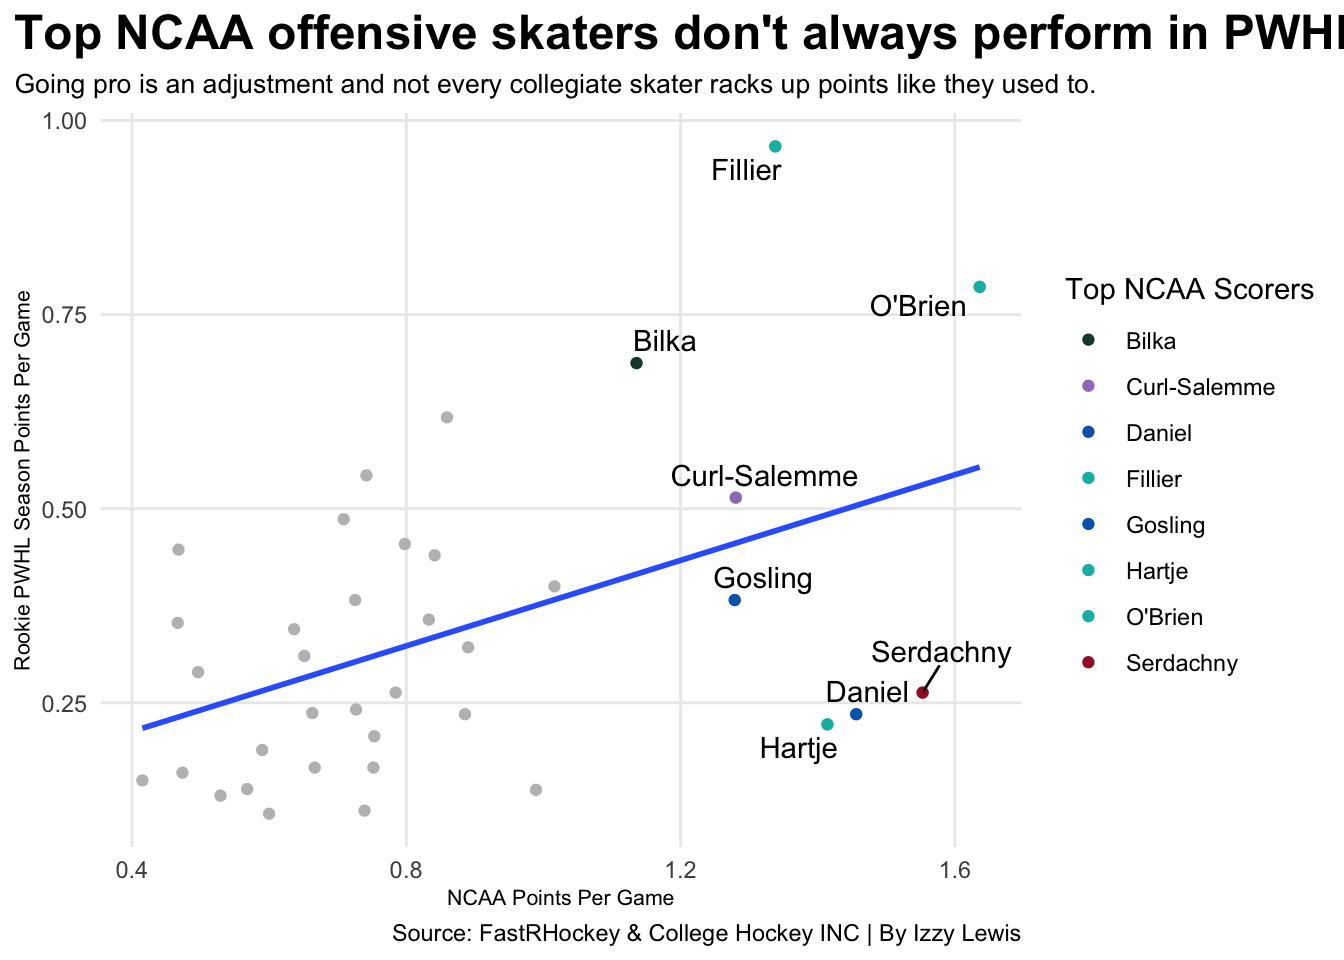
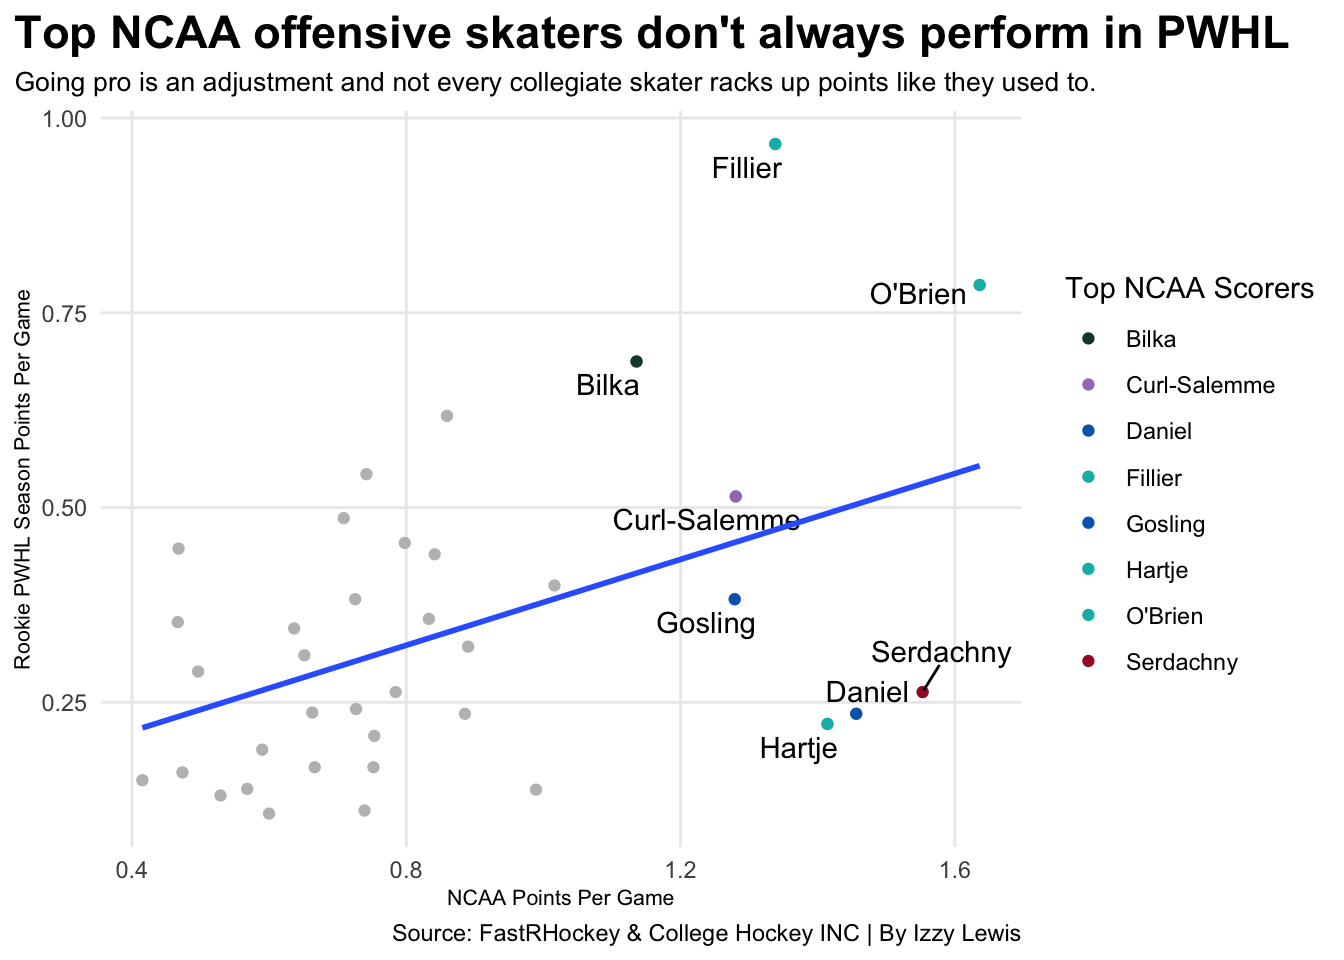
headlinesizechanges

diff --git a/posts/pwhl-expansion-predictions/index.html b/posts/pwhl-expansion-predictions/index.html
@@ -442,7 +442,7 @@ pre > code.sourceCode > span > a:first-child::before { text-decoration: underlin
 <span id="cb2-223"><a href="#cb2-223" aria-hidden="true" tabindex="-1"></a>    ) <span class="sc">+</span></span>
 <span id="cb2-224"><a href="#cb2-224" aria-hidden="true" tabindex="-1"></a>  <span class="fu">theme_minimal</span>() <span class="sc">+</span></span>
 <span id="cb2-225"><a href="#cb2-225" aria-hidden="true" tabindex="-1"></a>   <span class="fu">theme</span>(</span>
-<span id="cb2-226"><a href="#cb2-226" aria-hidden="true" tabindex="-1"></a>    <span class="at">plot.title =</span> <span class="fu">element_text</span>(<span class="at">size =</span> <span class="dv">18</span>, <span class="at">face =</span> <span class="st">"bold"</span>),</span>
+<span id="cb2-226"><a href="#cb2-226" aria-hidden="true" tabindex="-1"></a>    <span class="at">plot.title =</span> <span class="fu">element_text</span>(<span class="at">size =</span> <span class="dv">17</span>, <span class="at">face =</span> <span class="st">"bold"</span>),</span>
 <span id="cb2-227"><a href="#cb2-227" aria-hidden="true" tabindex="-1"></a>    <span class="at">axis.title =</span> <span class="fu">element_text</span>(<span class="at">size =</span> <span class="dv">8</span>), </span>
 <span id="cb2-228"><a href="#cb2-228" aria-hidden="true" tabindex="-1"></a>    <span class="at">plot.subtitle =</span> <span class="fu">element_text</span>(<span class="at">size=</span><span class="dv">10</span>), </span>
 <span id="cb2-229"><a href="#cb2-229" aria-hidden="true" tabindex="-1"></a>    <span class="at">panel.grid.minor =</span> <span class="fu">element_blank</span>(),</span>
@@ -561,7 +561,7 @@ pre > code.sourceCode > span > a:first-child::before { text-decoration: underlin
 <span id="cb3-96"><a href="#cb3-96" aria-hidden="true" tabindex="-1"></a>    ) <span class="sc">+</span></span>
 <span id="cb3-97"><a href="#cb3-97" aria-hidden="true" tabindex="-1"></a>  <span class="fu">theme_minimal</span>() <span class="sc">+</span></span>
 <span id="cb3-98"><a href="#cb3-98" aria-hidden="true" tabindex="-1"></a>   <span class="fu">theme</span>(</span>
-<span id="cb3-99"><a href="#cb3-99" aria-hidden="true" tabindex="-1"></a>    <span class="at">plot.title =</span> <span class="fu">element_text</span>(<span class="at">size =</span> <span class="dv">18</span>, <span class="at">face =</span> <span class="st">"bold"</span>),</span>
+<span id="cb3-99"><a href="#cb3-99" aria-hidden="true" tabindex="-1"></a>    <span class="at">plot.title =</span> <span class="fu">element_text</span>(<span class="at">size =</span> <span class="dv">17</span>, <span class="at">face =</span> <span class="st">"bold"</span>),</span>
 <span id="cb3-100"><a href="#cb3-100" aria-hidden="true" tabindex="-1"></a>    <span class="at">axis.title =</span> <span class="fu">element_text</span>(<span class="at">size =</span> <span class="dv">8</span>), </span>
 <span id="cb3-101"><a href="#cb3-101" aria-hidden="true" tabindex="-1"></a>    <span class="at">plot.subtitle =</span> <span class="fu">element_text</span>(<span class="at">size=</span><span class="dv">10</span>),</span>
 <span id="cb3-102"><a href="#cb3-102" aria-hidden="true" tabindex="-1"></a>    <span class="at">panel.grid.minor =</span> <span class="fu">element_blank</span>(),</span>

diff --git a/index.html b/index.html
@@ -207,7 +207,7 @@ window.Quarto = {
 
 <div class="quarto-listing quarto-listing-container-default" id="listing-listing">
 <div class="list quarto-listing-default">
-<div class="quarto-post image-right" data-index="0" data-categories="aG9ja2V5JTJDcHdobCUyQ2V4cGFuc2lvbnRlYW1z" data-listing-date-sort="1794549600000" data-listing-file-modified-sort="1794608506222" data-listing-date-modified-sort="NaN" data-listing-reading-time-sort="17" data-listing-word-count-sort="3244">
+<div class="quarto-post image-right" data-index="0" data-categories="aG9ja2V5JTJDcHdobCUyQ2V4cGFuc2lvbnRlYW1z" data-listing-date-sort="1794549600000" data-listing-file-modified-sort="1794609344395" data-listing-date-modified-sort="NaN" data-listing-reading-time-sort="17" data-listing-word-count-sort="3244">
 <div class="thumbnail"><a href="./posts/pwhl-expansion-predictions/index.html" class="no-external-icon">
 
 <img loading="lazy" src="./posts/pwhl-expansion-predictions/image.png" class="thumbnail-image">
